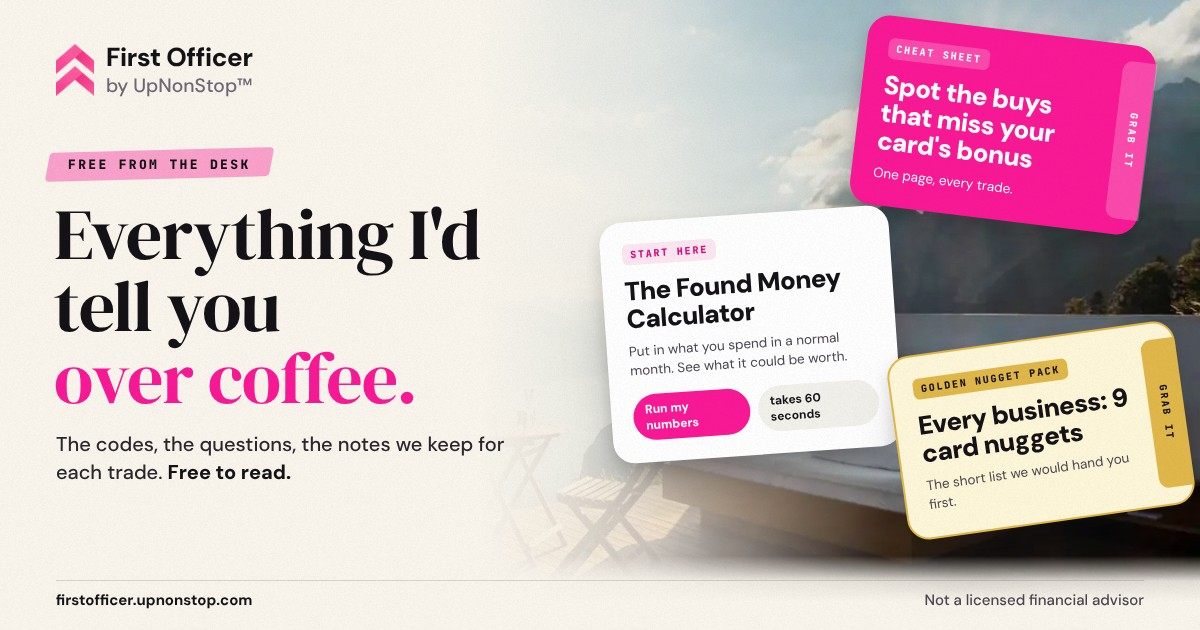
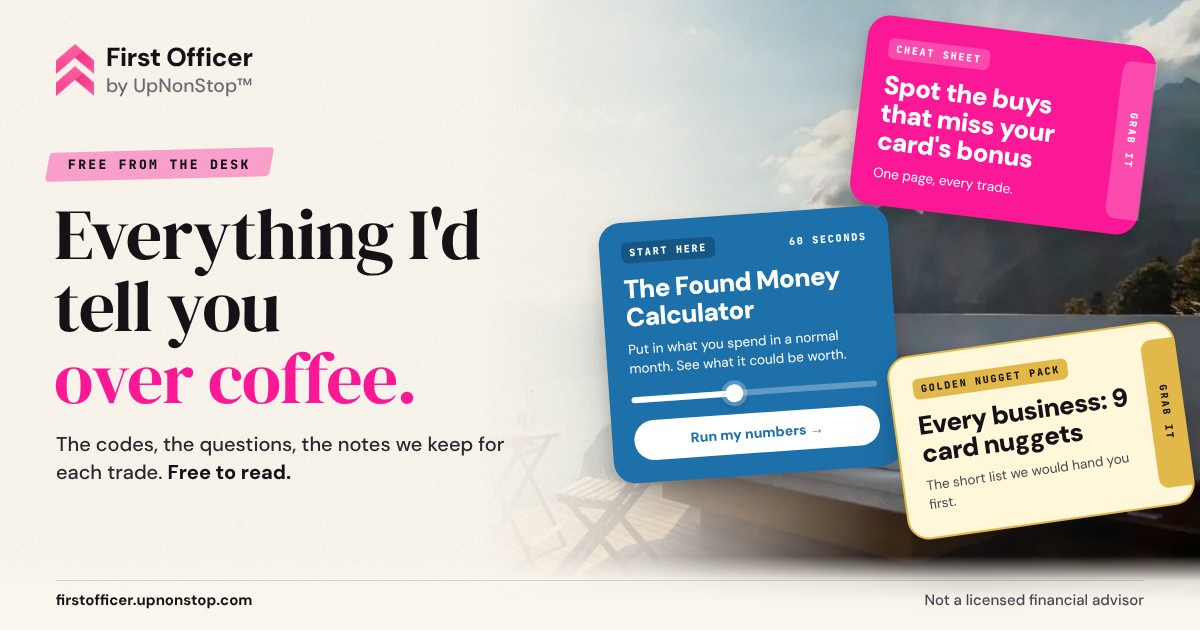
Product and Freebies link previews: 1.08M fits its panel; the calculator card redesigned
- Product: "360k → 1.08M" was running out of the white "Points a year"
  panel. The row is now 34px / 22px / 46px with an 8px gap, so it fits with
  room to spare.
- Freebies: the Found Money Calculator card was a plain white box with two
  wrapping pills. It is now the calculator's blue (#1E70AA, white text),
  with "60 seconds" in the label row, a small slider and one
  "Run my numbers →" button. The grain sits under the cards.
- Versions: product ?v=5, freebies ?v=4.

Claude-Session: https://claude.ai/code/session_011MWAFeWdP6UkK35f7g2iDX

Changed region(s): [[0.4933, 0.3016, 0.7708, 0.7841]]

diff --git a/freebies.html b/freebies.html
@@ -14,7 +14,7 @@
 <meta name="description" content="Everything I&#x27;d tell you over coffee: 648 smart items for business owners, free to read. Leave your email for the new ones.">
 <script>document.documentElement.classList.add("dir-c");window.FO_LIMIT=6;document.documentElement.classList.add("o3h");</script><style id="fo-nxt31-css">:where(#fo-nxt31){padding:40px 0 72px;background:#FAF6EE;font-family:"DM Sans",system-ui,sans-serif}:where(#fo-nxt31) .wrap{max-width:1280px;margin:0 auto;padding:0 20px}:where(#fo-nxt31) .nxt{display:grid;gap:10px;padding:24px 20px;text-decoration:none;color:#141216;background:#fff;border-radius:22px;border-top:5px solid #FA1896;box-shadow:0 0 0 1px rgba(20,18,22,.08),0 18px 36px -24px rgba(20,18,22,.35);transition:transform .3s cubic-bezier(.22,1,.36,1)}:where(#fo-nxt31) .nxt:hover{transform:translateY(-4px)}:where(#fo-nxt31) .nxk{font-family:"JetBrains Mono",monospace;font-size:11.5px;letter-spacing:.14em;text-transform:uppercase;color:#4A4550;display:flex;align-items:center}:where(#fo-nxt31) .thr{display:inline-flex;gap:3px;margin-right:10px}:where(#fo-nxt31) .thr i{width:14px;height:4px;border-radius:2px;display:block}:where(#fo-nxt31) .te{background:#107B49}:where(#fo-nxt31) .tb{background:#BB4401}:where(#fo-nxt31) .tr{background:#7149C9}:where(#fo-nxt31) .tl{background:#085884}:where(#fo-nxt31) .nxh{font-family:"DM Serif Display",Georgia,serif;font-weight:400;font-size:32px;line-height:1.05;letter-spacing:-.01em;margin:0}:where(#fo-nxt31) .nxh .pk{color:#FA1896}:where(#fo-nxt31) .nxp{font-size:15.5px;line-height:1.5;color:#4A4550;max-width:720px}:where(#fo-nxt31) .nxb{display:inline-flex;align-items:center;gap:8px;justify-self:stretch;justify-content:center;height:50px;padding:0 24px;border-radius:999px;background:#FA1896;color:#fff;font-weight:700;margin-top:6px}@media(min-width:761px){:where(#fo-nxt31){padding:56px 0 88px}:where(#fo-nxt31) .wrap{padding:0 28px}:where(#fo-nxt31) .nxt{padding:34px 36px}:where(#fo-nxt31) .nxh{font-size:48px}:where(#fo-nxt31) .nxp{font-size:17px}:where(#fo-nxt31) .nxb{justify-self:start}}/* the house Up next card (fo-polish.css .pnx rules); these few lines only put back what this page's own reset (#ffd *) takes away */#fo-nxt31 .nxt{padding:24px 20px 22px}#fo-nxt31 .thr{margin-right:10px}#fo-nxt31 .nxb{padding:0 24px;margin-top:8px}@media(min-width:900px){#fo-nxt31 .nxt{padding:30px 40px 32px}#fo-nxt31 .nxt>.nxb{padding:0 28px;margin:0}}</style><link rel="stylesheet" href="assets/fo-rules.css">
 <link rel="stylesheet" href="assets/fo-polish.css">
-<noscript><style id="fo-static-ns">.fo-static{position:static!important;width:auto!important;height:auto!important;margin:0!important;overflow:visible!important;clip:auto!important;clip-path:none!important;white-space:normal!important;display:block!important;padding:14px 20px!important;font:500 15px/1.6 "DM Sans",system-ui,sans-serif;color:#141216}.fo-static a{display:inline-block;margin:0 16px 6px 0;color:#141216;font-weight:600}</style></noscript><!-- fo-ld --><script type="application/ld+json">{"@context":"https://schema.org","@type":"CollectionPage","name":"Free from the desk","url":"https://firstofficer.upnonstop.com/freebies.html","description":"Everything I'd tell you over coffee: 648 smart items for business owners, free to read. Leave your email for the new ones.","isPartOf":{"@id":"https://firstofficer.upnonstop.com/#website"},"publisher":{"@id":"https://firstofficer.upnonstop.com/#org"}}</script><!-- /fo-ld --><!-- fo-meta --><link rel="canonical" href="https://firstofficer.upnonstop.com/freebies.html"><meta property="og:type" content="website"><meta property="og:site_name" content="First Officer by UpNonStop"><meta property="og:title" content="Freebies · 648 items for business owners · First Officer"><meta property="og:description" content="Everything I&#x27;d tell you over coffee: 648 smart items for business owners, free to read. Leave your email for the new ones."><meta property="og:url" content="https://firstofficer.upnonstop.com/freebies.html"><meta property="og:image" content="https://firstofficer.upnonstop.com/og/freebies.jpg?v=3"><meta property="og:image:width" content="1200"><meta property="og:image:height" content="630"><meta property="og:image:type" content="image/jpeg"><meta property="og:image:alt" content="Everything I&#x27;d tell you over coffee. Free from the desk: a cheat sheet, the Found Money Calculator and a golden nugget pack."><meta name="twitter:card" content="summary_large_image"><meta name="twitter:title" content="Freebies · 648 items for business owners · First Officer"><meta name="twitter:description" content="Everything I&#x27;d tell you over coffee: 648 smart items for business owners, free to read. Leave your email for the new ones."><meta name="twitter:image" content="https://firstofficer.upnonstop.com/og/freebies.jpg?v=3"><meta name="twitter:image:alt" content="Everything I&#x27;d tell you over coffee. Free from the desk: a cheat sheet, the Found Money Calculator and a golden nugget pack."><!-- /fo-meta --></head><body><div id="fo-header"><!--fo-static--><nav class="fo-static" aria-label="Main" style="position:absolute;width:1px;height:1px;margin:-1px;padding:0;overflow:hidden;clip:rect(0 0 0 0);clip-path:inset(50%);white-space:nowrap;border:0"><a href="index.html">First Officer home</a> <a href="product.html">Product</a> <a href="pricing.html">Pricing</a> <a href="freebies.html">Freebies</a> <a href="calculator.html">Calculator</a> <a href="about.html">About</a> <a href="product.html#how">How it works</a> <a href="trust.html">Trust</a> <a href="industries.html">Industries</a> <a href="field-notes.html">Field Notes</a> <a href="education.html">Lessons</a> <a href="book.html">Get Your Desk</a> <a href="https://wa.me/16199404040?text=First%20Officer%20Found%20Money%20Call">Message your First Officer</a></nav><!--/fo-static--></div>
+<noscript><style id="fo-static-ns">.fo-static{position:static!important;width:auto!important;height:auto!important;margin:0!important;overflow:visible!important;clip:auto!important;clip-path:none!important;white-space:normal!important;display:block!important;padding:14px 20px!important;font:500 15px/1.6 "DM Sans",system-ui,sans-serif;color:#141216}.fo-static a{display:inline-block;margin:0 16px 6px 0;color:#141216;font-weight:600}</style></noscript><!-- fo-ld --><script type="application/ld+json">{"@context":"https://schema.org","@type":"CollectionPage","name":"Free from the desk","url":"https://firstofficer.upnonstop.com/freebies.html","description":"Everything I'd tell you over coffee: 648 smart items for business owners, free to read. Leave your email for the new ones.","isPartOf":{"@id":"https://firstofficer.upnonstop.com/#website"},"publisher":{"@id":"https://firstofficer.upnonstop.com/#org"}}</script><!-- /fo-ld --><!-- fo-meta --><link rel="canonical" href="https://firstofficer.upnonstop.com/freebies.html"><meta property="og:type" content="website"><meta property="og:site_name" content="First Officer by UpNonStop"><meta property="og:title" content="Freebies · 648 items for business owners · First Officer"><meta property="og:description" content="Everything I&#x27;d tell you over coffee: 648 smart items for business owners, free to read. Leave your email for the new ones."><meta property="og:url" content="https://firstofficer.upnonstop.com/freebies.html"><meta property="og:image" content="https://firstofficer.upnonstop.com/og/freebies.jpg?v=4"><meta property="og:image:width" content="1200"><meta property="og:image:height" content="630"><meta property="og:image:type" content="image/jpeg"><meta property="og:image:alt" content="Everything I&#x27;d tell you over coffee. Free from the desk: a cheat sheet, the Found Money Calculator and a golden nugget pack."><meta name="twitter:card" content="summary_large_image"><meta name="twitter:title" content="Freebies · 648 items for business owners · First Officer"><meta name="twitter:description" content="Everything I&#x27;d tell you over coffee: 648 smart items for business owners, free to read. Leave your email for the new ones."><meta name="twitter:image" content="https://firstofficer.upnonstop.com/og/freebies.jpg?v=4"><meta name="twitter:image:alt" content="Everything I&#x27;d tell you over coffee. Free from the desk: a cheat sheet, the Found Money Calculator and a golden nugget pack."><!-- /fo-meta --></head><body><div id="fo-header"><!--fo-static--><nav class="fo-static" aria-label="Main" style="position:absolute;width:1px;height:1px;margin:-1px;padding:0;overflow:hidden;clip:rect(0 0 0 0);clip-path:inset(50%);white-space:nowrap;border:0"><a href="index.html">First Officer home</a> <a href="product.html">Product</a> <a href="pricing.html">Pricing</a> <a href="freebies.html">Freebies</a> <a href="calculator.html">Calculator</a> <a href="about.html">About</a> <a href="product.html#how">How it works</a> <a href="trust.html">Trust</a> <a href="industries.html">Industries</a> <a href="field-notes.html">Field Notes</a> <a href="education.html">Lessons</a> <a href="book.html">Get Your Desk</a> <a href="https://wa.me/16199404040?text=First%20Officer%20Found%20Money%20Call">Message your First Officer</a></nav><!--/fo-static--></div>
 <div class="gallery aboutwrap"><div class="screen">
 
 

diff --git a/product.html b/product.html
@@ -17,7 +17,7 @@
 
 <link rel="stylesheet" href="assets/fo-product.css">
 <link rel="stylesheet" href="assets/fo-pages2.css"><noscript><style>.reveal{opacity:1!important;transform:none!important}</style></noscript><noscript><style id="fo-static-ns">.fo-static{position:static!important;width:auto!important;height:auto!important;margin:0!important;overflow:visible!important;clip:auto!important;clip-path:none!important;white-space:normal!important;display:block!important;padding:14px 20px!important;font:500 15px/1.6 "DM Sans",system-ui,sans-serif;color:#141216}.fo-static a{display:inline-block;margin:0 16px 6px 0;color:#141216;font-weight:600}</style></noscript><link rel="stylesheet" href="assets/fo-rules.css">
-<link rel="stylesheet" href="assets/fo-polish.css"><link rel="stylesheet" href="assets/fo-product-fit.css"><!-- fo-ld --><script type="application/ld+json">{"@context":"https://schema.org","@type":"WebPage","name":"Product · One desk, four pillars","url":"https://firstofficer.upnonstop.com/product.html","isPartOf":{"@type":"WebSite","name":"First Officer by UpNonStop","url":"https://firstofficer.upnonstop.com/"},"description":"What the desk can do: Earn, Burn, Return, Learn. Fictional examples, illustrative estimates."}</script><script type="application/ld+json">{"@context":"https://schema.org","@type":"BreadcrumbList","itemListElement":[{"@type":"ListItem","position":1,"name":"Home","item":"https://firstofficer.upnonstop.com/"},{"@type":"ListItem","position":2,"name":"Product · One desk, four pillars","item":"https://firstofficer.upnonstop.com/product.html"}]}</script><!-- /fo-ld --><!-- fo-meta --><link rel="canonical" href="https://firstofficer.upnonstop.com/product.html"><meta property="og:type" content="website"><meta property="og:site_name" content="First Officer by UpNonStop"><meta property="og:title" content="Product · One desk, four pillars · First Officer"><meta property="og:description" content="What the desk can do: Earn, Burn, Return, Learn. Fictional examples, illustrative estimates."><meta property="og:url" content="https://firstofficer.upnonstop.com/product.html"><meta property="og:image" content="https://firstofficer.upnonstop.com/og/product.jpg?v=4"><meta property="og:image:width" content="1200"><meta property="og:image:height" content="630"><meta property="og:image:type" content="image/jpeg"><meta property="og:image:alt" content="Outnumbered? Now you have a desk. Bespoke strategy and the most points from every dollar, shown on a phone with illustrative estimates."><meta name="twitter:card" content="summary_large_image"><meta name="twitter:title" content="Product · One desk, four pillars · First Officer"><meta name="twitter:description" content="What the desk can do: Earn, Burn, Return, Learn. Fictional examples, illustrative estimates."><meta name="twitter:image" content="https://firstofficer.upnonstop.com/og/product.jpg?v=4"><meta name="twitter:image:alt" content="Outnumbered? Now you have a desk. Bespoke strategy and the most points from every dollar, shown on a phone with illustrative estimates."><!-- /fo-meta --></head>
+<link rel="stylesheet" href="assets/fo-polish.css"><link rel="stylesheet" href="assets/fo-product-fit.css"><!-- fo-ld --><script type="application/ld+json">{"@context":"https://schema.org","@type":"WebPage","name":"Product · One desk, four pillars","url":"https://firstofficer.upnonstop.com/product.html","isPartOf":{"@type":"WebSite","name":"First Officer by UpNonStop","url":"https://firstofficer.upnonstop.com/"},"description":"What the desk can do: Earn, Burn, Return, Learn. Fictional examples, illustrative estimates."}</script><script type="application/ld+json">{"@context":"https://schema.org","@type":"BreadcrumbList","itemListElement":[{"@type":"ListItem","position":1,"name":"Home","item":"https://firstofficer.upnonstop.com/"},{"@type":"ListItem","position":2,"name":"Product · One desk, four pillars","item":"https://firstofficer.upnonstop.com/product.html"}]}</script><!-- /fo-ld --><!-- fo-meta --><link rel="canonical" href="https://firstofficer.upnonstop.com/product.html"><meta property="og:type" content="website"><meta property="og:site_name" content="First Officer by UpNonStop"><meta property="og:title" content="Product · One desk, four pillars · First Officer"><meta property="og:description" content="What the desk can do: Earn, Burn, Return, Learn. Fictional examples, illustrative estimates."><meta property="og:url" content="https://firstofficer.upnonstop.com/product.html"><meta property="og:image" content="https://firstofficer.upnonstop.com/og/product.jpg?v=5"><meta property="og:image:width" content="1200"><meta property="og:image:height" content="630"><meta property="og:image:type" content="image/jpeg"><meta property="og:image:alt" content="Outnumbered? Now you have a desk. Bespoke strategy and the most points from every dollar, shown on a phone with illustrative estimates."><meta name="twitter:card" content="summary_large_image"><meta name="twitter:title" content="Product · One desk, four pillars · First Officer"><meta name="twitter:description" content="What the desk can do: Earn, Burn, Return, Learn. Fictional examples, illustrative estimates."><meta name="twitter:image" content="https://firstofficer.upnonstop.com/og/product.jpg?v=5"><meta name="twitter:image:alt" content="Outnumbered? Now you have a desk. Bespoke strategy and the most points from every dollar, shown on a phone with illustrative estimates."><!-- /fo-meta --></head>
 <body class="modes pgx"><div id="fo-header"><!--fo-static--><nav class="fo-static" aria-label="Main" style="position:absolute;width:1px;height:1px;margin:-1px;padding:0;overflow:hidden;clip:rect(0 0 0 0);clip-path:inset(50%);white-space:nowrap;border:0"><a href="index.html">First Officer home</a> <a href="product.html">Product</a> <a href="pricing.html">Pricing</a> <a href="freebies.html">Freebies</a> <a href="calculator.html">Calculator</a> <a href="about.html">About</a> <a href="product.html#how">How it works</a> <a href="trust.html">Trust</a> <a href="industries.html">Industries</a> <a href="field-notes.html">Field Notes</a> <a href="education.html">Lessons</a> <a href="book.html">Get Your Desk</a> <a href="https://wa.me/16199404040?text=First%20Officer%20Found%20Money%20Call">Message your First Officer</a></nav><!--/fo-static--></div>
 
 <main id="main">

diff --git a/free-from-the-desk.html b/free-from-the-desk.html
@@ -1,4 +1,4 @@
-<!doctype html><html lang="en"><head><meta charset="utf-8"><meta http-equiv="refresh" content="0; url=freebies.html"><link rel="canonical" href="https://firstofficer.upnonstop.com/freebies.html"><title>Freebies</title><meta property="og:type" content="website"><meta property="og:site_name" content="First Officer by UpNonStop"><meta property="og:title" content="Freebies · 433 items for business owners · First Officer"><meta property="og:description" content="Everything I&#x27;d tell you over coffee: 433 smart items for business owners, free to read. Leave your email for the new ones."><meta property="og:url" content="https://firstofficer.upnonstop.com/freebies.html"><meta property="og:image" content="https://firstofficer.upnonstop.com/og/freebies.jpg?v=3"><meta property="og:image:width" content="1200"><meta property="og:image:height" content="630"><meta property="og:image:type" content="image/jpeg"><meta property="og:image:alt" content="Everything I&#x27;d tell you over coffee. Free from the desk: a cheat sheet, the Found Money Calculator and a golden nugget pack."><meta name="twitter:card" content="summary_large_image"><meta name="twitter:title" content="Freebies · 433 items for business owners · First Officer"><meta name="twitter:description" content="Everything I&#x27;d tell you over coffee: 433 smart items for business owners, free to read. Leave your email for the new ones."><meta name="twitter:image" content="https://firstofficer.upnonstop.com/og/freebies.jpg?v=3"><meta name="twitter:image:alt" content="Everything I&#x27;d tell you over coffee. Free from the desk: a cheat sheet, the Found Money Calculator and a golden nugget pack.">
+<!doctype html><html lang="en"><head><meta charset="utf-8"><meta http-equiv="refresh" content="0; url=freebies.html"><link rel="canonical" href="https://firstofficer.upnonstop.com/freebies.html"><title>Freebies</title><meta property="og:type" content="website"><meta property="og:site_name" content="First Officer by UpNonStop"><meta property="og:title" content="Freebies · 433 items for business owners · First Officer"><meta property="og:description" content="Everything I&#x27;d tell you over coffee: 433 smart items for business owners, free to read. Leave your email for the new ones."><meta property="og:url" content="https://firstofficer.upnonstop.com/freebies.html"><meta property="og:image" content="https://firstofficer.upnonstop.com/og/freebies.jpg?v=4"><meta property="og:image:width" content="1200"><meta property="og:image:height" content="630"><meta property="og:image:type" content="image/jpeg"><meta property="og:image:alt" content="Everything I&#x27;d tell you over coffee. Free from the desk: a cheat sheet, the Found Money Calculator and a golden nugget pack."><meta name="twitter:card" content="summary_large_image"><meta name="twitter:title" content="Freebies · 433 items for business owners · First Officer"><meta name="twitter:description" content="Everything I&#x27;d tell you over coffee: 433 smart items for business owners, free to read. Leave your email for the new ones."><meta name="twitter:image" content="https://firstofficer.upnonstop.com/og/freebies.jpg?v=4"><meta name="twitter:image:alt" content="Everything I&#x27;d tell you over coffee. Free from the desk: a cheat sheet, the Found Money Calculator and a golden nugget pack.">
 <link rel="stylesheet" href="assets/fo-rules.css">
 <link rel="stylesheet" href="assets/fo-polish.css">
 </head><body><a href="freebies.html">Freebies</a></body></html>

diff --git a/strategist.html b/strategist.html
@@ -3,7 +3,7 @@
 <head>
 <meta charset="utf-8">
 <meta name="viewport" content="width=device-width,initial-scale=1">
-<title>Your strategy · First Officer</title><meta property="og:type" content="website"><meta property="og:site_name" content="First Officer by UpNonStop"><meta property="og:title" content="Product · One desk, four pillars · First Officer"><meta property="og:description" content="What the desk can do: Earn, Burn, Return, Learn. Fictional examples, illustrative estimates."><meta property="og:url" content="https://firstofficer.upnonstop.com/product.html"><meta property="og:image" content="https://firstofficer.upnonstop.com/og/product.jpg?v=4"><meta property="og:image:width" content="1200"><meta property="og:image:height" content="630"><meta property="og:image:type" content="image/jpeg"><meta property="og:image:alt" content="Outnumbered? Now you have a desk. Bespoke strategy and the most points from every dollar, shown on a phone with illustrative estimates."><meta name="twitter:card" content="summary_large_image"><meta name="twitter:title" content="Product · One desk, four pillars · First Officer"><meta name="twitter:description" content="What the desk can do: Earn, Burn, Return, Learn. Fictional examples, illustrative estimates."><meta name="twitter:image" content="https://firstofficer.upnonstop.com/og/product.jpg?v=4"><meta name="twitter:image:alt" content="Outnumbered? Now you have a desk. Bespoke strategy and the most points from every dollar, shown on a phone with illustrative estimates.">
+<title>Your strategy · First Officer</title><meta property="og:type" content="website"><meta property="og:site_name" content="First Officer by UpNonStop"><meta property="og:title" content="Product · One desk, four pillars · First Officer"><meta property="og:description" content="What the desk can do: Earn, Burn, Return, Learn. Fictional examples, illustrative estimates."><meta property="og:url" content="https://firstofficer.upnonstop.com/product.html"><meta property="og:image" content="https://firstofficer.upnonstop.com/og/product.jpg?v=5"><meta property="og:image:width" content="1200"><meta property="og:image:height" content="630"><meta property="og:image:type" content="image/jpeg"><meta property="og:image:alt" content="Outnumbered? Now you have a desk. Bespoke strategy and the most points from every dollar, shown on a phone with illustrative estimates."><meta name="twitter:card" content="summary_large_image"><meta name="twitter:title" content="Product · One desk, four pillars · First Officer"><meta name="twitter:description" content="What the desk can do: Earn, Burn, Return, Learn. Fictional examples, illustrative estimates."><meta name="twitter:image" content="https://firstofficer.upnonstop.com/og/product.jpg?v=5"><meta name="twitter:image:alt" content="Outnumbered? Now you have a desk. Bespoke strategy and the most points from every dollar, shown on a phone with illustrative estimates.">
 <link rel="canonical" href="https://firstofficer.upnonstop.com/product.html">
 <script>location.replace("product.html#strategist");</script>
 <noscript><meta http-equiv="refresh" content="0; url=product.html#strategist"></noscript>

diff --git a/how.html b/how.html
@@ -3,7 +3,7 @@
 <head>
 <meta charset="utf-8">
 <meta name="viewport" content="width=device-width,initial-scale=1">
-<title>How it works · First Officer</title><meta property="og:type" content="website"><meta property="og:site_name" content="First Officer by UpNonStop"><meta property="og:title" content="Product · One desk, four pillars · First Officer"><meta property="og:description" content="What the desk can do: Earn, Burn, Return, Learn. Fictional examples, illustrative estimates."><meta property="og:url" content="https://firstofficer.upnonstop.com/product.html"><meta property="og:image" content="https://firstofficer.upnonstop.com/og/product.jpg?v=4"><meta property="og:image:width" content="1200"><meta property="og:image:height" content="630"><meta property="og:image:type" content="image/jpeg"><meta property="og:image:alt" content="Outnumbered? Now you have a desk. Bespoke strategy and the most points from every dollar, shown on a phone with illustrative estimates."><meta name="twitter:card" content="summary_large_image"><meta name="twitter:title" content="Product · One desk, four pillars · First Officer"><meta name="twitter:description" content="What the desk can do: Earn, Burn, Return, Learn. Fictional examples, illustrative estimates."><meta name="twitter:image" content="https://firstofficer.upnonstop.com/og/product.jpg?v=4"><meta name="twitter:image:alt" content="Outnumbered? Now you have a desk. Bespoke strategy and the most points from every dollar, shown on a phone with illustrative estimates.">
+<title>How it works · First Officer</title><meta property="og:type" content="website"><meta property="og:site_name" content="First Officer by UpNonStop"><meta property="og:title" content="Product · One desk, four pillars · First Officer"><meta property="og:description" content="What the desk can do: Earn, Burn, Return, Learn. Fictional examples, illustrative estimates."><meta property="og:url" content="https://firstofficer.upnonstop.com/product.html"><meta property="og:image" content="https://firstofficer.upnonstop.com/og/product.jpg?v=5"><meta property="og:image:width" content="1200"><meta property="og:image:height" content="630"><meta property="og:image:type" content="image/jpeg"><meta property="og:image:alt" content="Outnumbered? Now you have a desk. Bespoke strategy and the most points from every dollar, shown on a phone with illustrative estimates."><meta name="twitter:card" content="summary_large_image"><meta name="twitter:title" content="Product · One desk, four pillars · First Officer"><meta name="twitter:description" content="What the desk can do: Earn, Burn, Return, Learn. Fictional examples, illustrative estimates."><meta name="twitter:image" content="https://firstofficer.upnonstop.com/og/product.jpg?v=5"><meta name="twitter:image:alt" content="Outnumbered? Now you have a desk. Bespoke strategy and the most points from every dollar, shown on a phone with illustrative estimates.">
 <link rel="canonical" href="https://firstofficer.upnonstop.com/product.html">
 <script>location.replace("product.html#how");</script>
 <noscript><meta http-equiv="refresh" content="0; url=product.html#how"></noscript>
